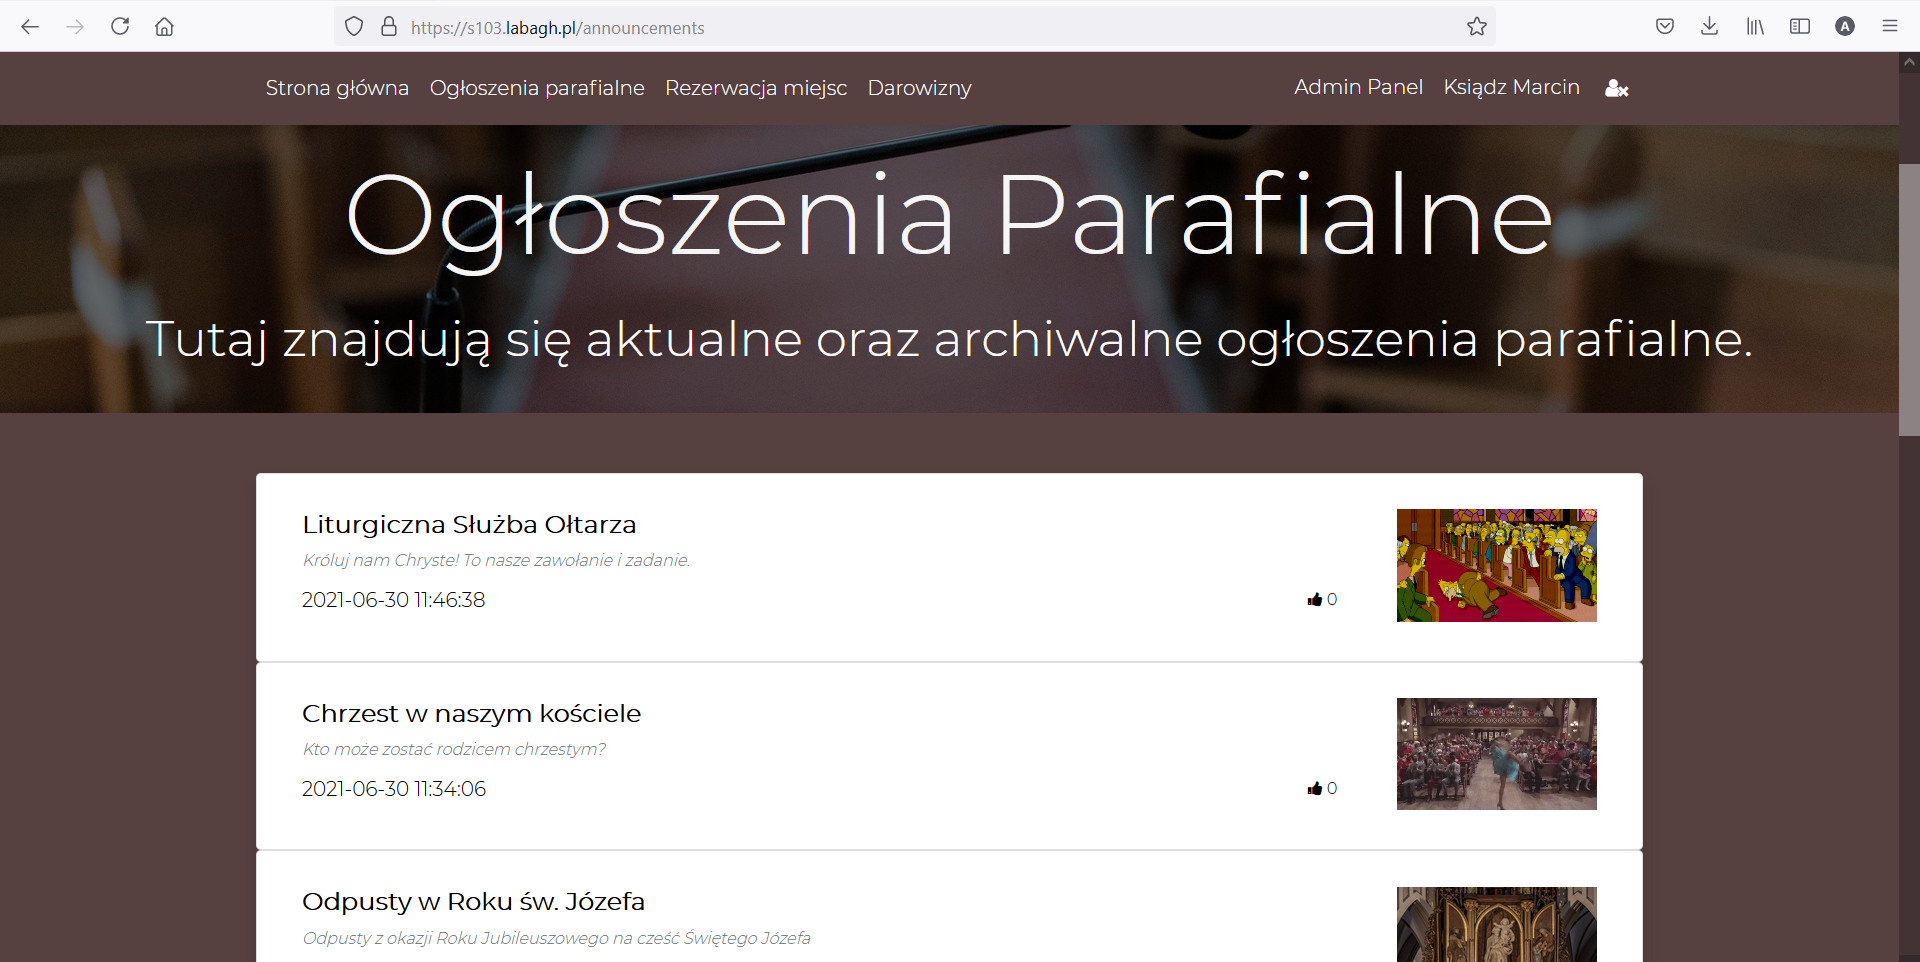
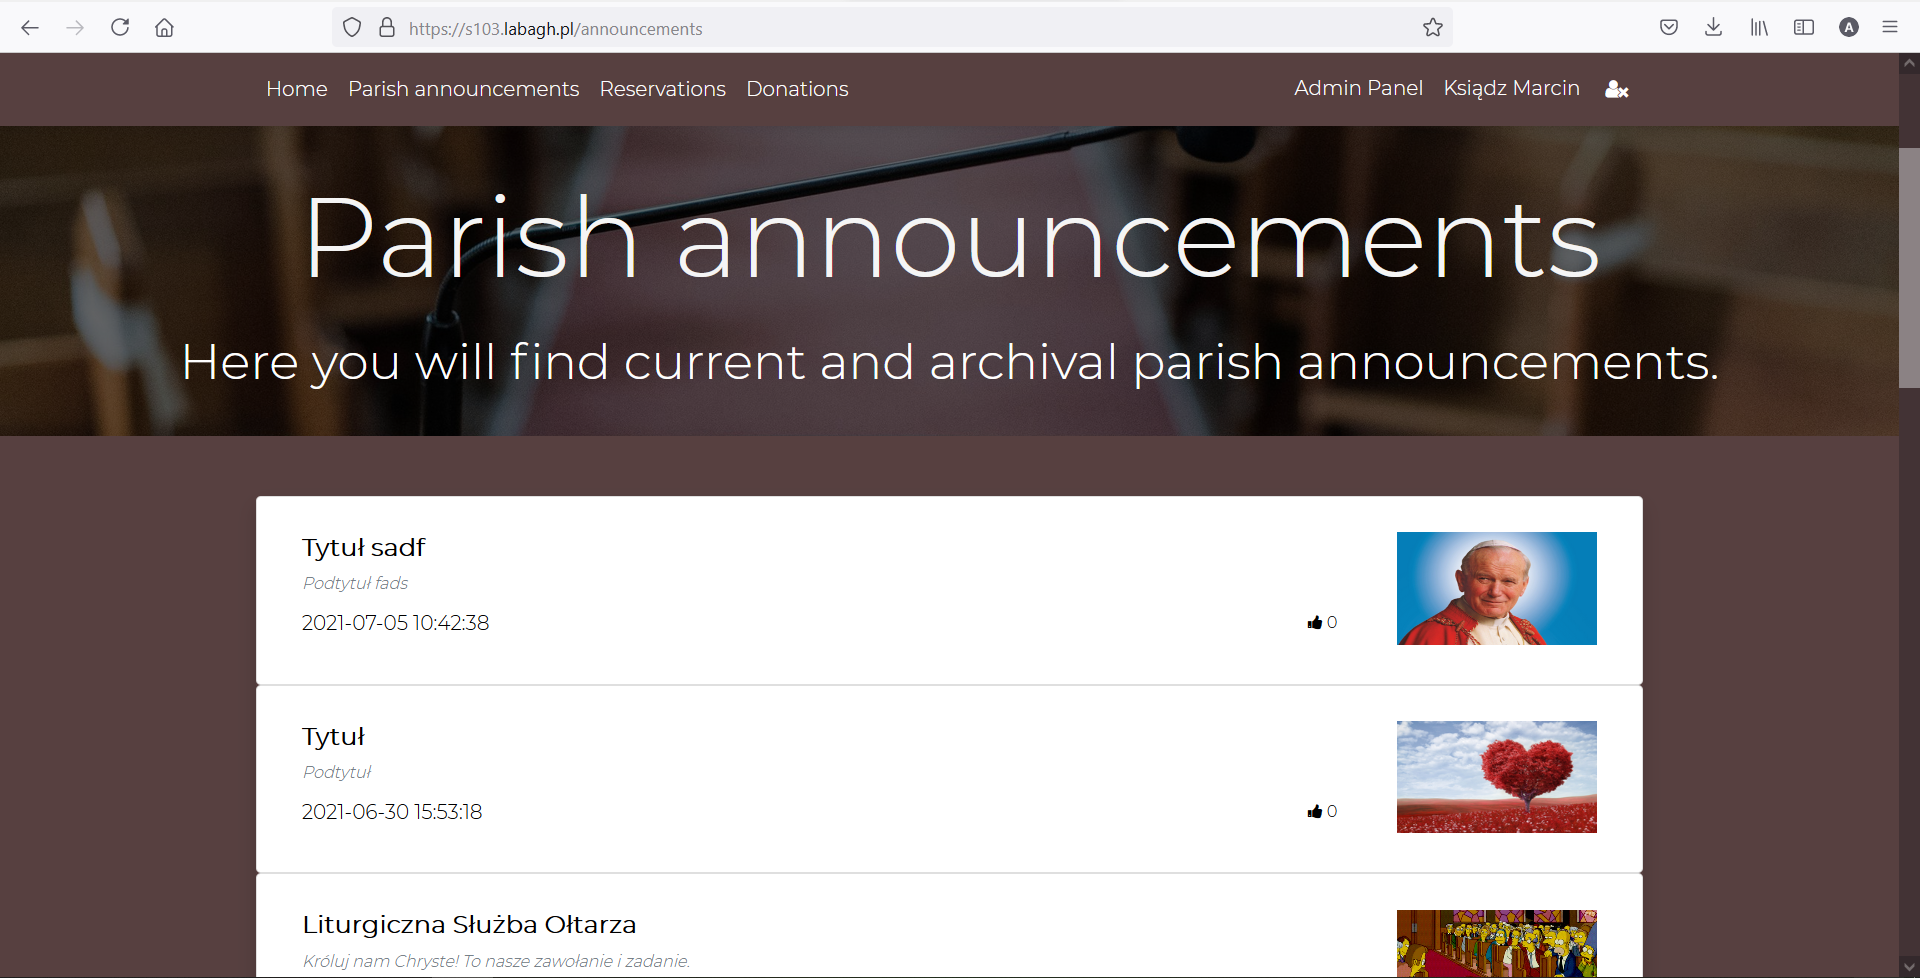
Final push - quick fixes and added new screenshots

diff --git a/html/register.html b/html/register.html
@@ -50,7 +50,7 @@
             <div id="Length" class="glyphicon glyphicon-remove">At least 7 characters</div>
             <div id="UpperCase" class="glyphicon glyphicon-remove">At least one upper case letter</div>
             <div id="LowerCase" class="glyphicon glyphicon-remove">At least one lower case letter</div>
-            <div id="Numbers" class="glyphicon glyphicon-remove">At least digit</div>
+            <div id="Numbers" class="glyphicon glyphicon-remove">At least one digit</div>
             <div id="Symbols" class="glyphicon glyphicon-remove">At least one special character (!@#$%^&*)</div>
             <div id="RepeatedPass" class="glyphicon glyphicon-remove">Both password are the same</div>
             <div class="reCaptchaDiv">

diff --git a/html/admin_announcements.html b/html/admin_announcements.html
@@ -9,10 +9,10 @@
 		<div class="fluid">
 		</div>
 		 <div class="card-header">
-        	Ogłoszenia
+        	Announcements
     	</div>
     	<a href="/edit_article/new">
-	        <button class="add_new btn btn-light">Add new announcement</button>
+	        <button class="add_new btn btn-light">Add a new announcement</button>
 	    </a>
     	<div class="card-body">
     		<table class="table table-striped mt-3">

diff --git a/html/admin_reservations.html b/html/admin_reservations.html
@@ -68,7 +68,7 @@
             </div>
         </div>
         <button class ="submitButton" id="submitButton" type="submit">
-            Dodaj <i class="fa fa-arrow-right" aria-hidden="true"></i>
+            Add <i class="fa fa-arrow-right" aria-hidden="true"></i>
         </button>
         <div id="info">Correct the entered data.</div>
         <div style="height: 10px;"></div>
